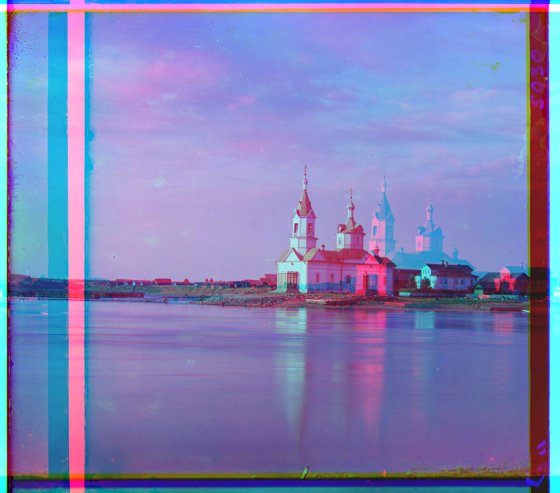
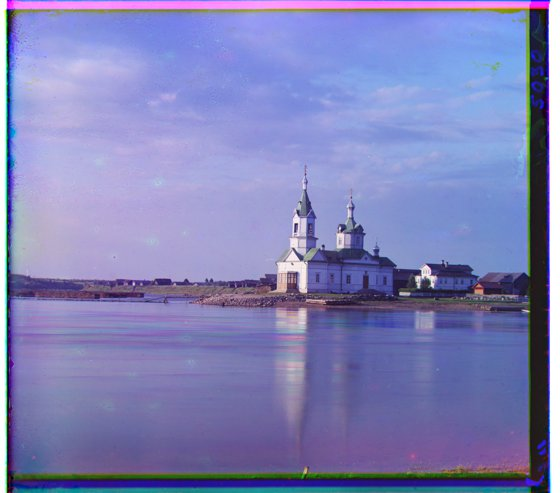
new imgs

diff --git a/proj1/index.html b/proj1/index.html
@@ -86,20 +86,6 @@
     compounds across levels.
   </p>
 
-  <p class="setup">
-    <b>Multi-start.</b> A plain pyramid can get stuck. Depending on how
-    coarse the base level is, a handful of images converge to the wrong
-    local minimum, often because a repetitive pattern (tiled
-    stonework, furrows in a field) looks similarly good at several offsets
-    once the image is small enough to lose that detail. Rather than hand-pick
-    a <code>min_size</code> per image (which the assignment rules out
-    anyway), I run the pyramid from four different base sizes
-    (50, 100, 150, 200px) and keep whichever of the four results actually
-    scores lowest. This is still a single, fixed, per-channel procedure,
-    with no manual tuning per image.
-  </p>
-
-
   <h2 id="s2"><span class="secno">2</span> Single-scale alignment</h2>
   <p class="setup">
     Results of the single-scale, raw-pixel L2 search (&plusmn;15px window)
@@ -124,7 +110,7 @@
   <table class="offsets-table">
     <thead><tr><th>Image</th><th>G offset (x, y)</th><th>R offset (x, y)</th><th>Time</th></tr></thead>
     <tbody>
-          <tr><td>Cathedral</td><td class="num">(5, 2)</td><td class="num">(12, 3)</td><td class="num">0.10s</td></tr>
+          <tr><td>Cathedral</td><td class="num">(5, 2)</td><td class="num">(12, 3)</td><td class="num">0.11s</td></tr>
           <tr><td>Monastery</td><td class="num">(-3, 2)</td><td class="num">(3, 2)</td><td class="num">0.07s</td></tr>
           <tr><td>Tobolsk</td><td class="num">(3, 3)</td><td class="num">(7, 3)</td><td class="num">0.07s</td></tr>
     </tbody>
@@ -136,9 +122,8 @@
     Results of the multi-scale pyramid alignment, with the L2 norm computed
     directly on raw RGB pixel values (as required), on all 14 provided
     example plates. All 14 use the exact same procedure and parameters,
-    with nothing tuned per image. Two of the 14 (church, emir) come out
-    visibly misaligned with this metric. See Section 5 for why, and for
-    the fix.
+    with nothing tuned per image. One of the 14 (emir) comes out visibly
+    misaligned with this metric. See Section 5 for why, and for the fix.
   </p>
 
   <div class="resultsgrid">
@@ -148,11 +133,11 @@
     </figure>
     <figure>
       <img src="media/pyramid_l2/church_aligned.jpg" width="560" height="493" loading="lazy" alt="Aligned Prokudin-Gorskii plate: Church">
-      <figcaption>Church<br><span class="offsets">G (25, 4) &middot; R (76, 508)</span> <b>(misaligned, see Section 5)</b></figcaption>
+      <figcaption>Church<br><span class="offsets">G (25, 4) &middot; R (58, -4)</span></figcaption>
     </figure>
     <figure>
       <img src="media/pyramid_l2/emir_aligned.jpg" width="560" height="485" loading="lazy" alt="Aligned Prokudin-Gorskii plate: Emir of Bukhara">
-      <figcaption>Emir of Bukhara<br><span class="offsets">G (48, 24) &middot; R (508, -61)</span> <b>(misaligned, see Section 5)</b></figcaption>
+      <figcaption>Emir of Bukhara<br><span class="offsets">G (48, 24) &middot; R (71, 39)</span> <b>(misaligned, see Section 5)</b></figcaption>
     </figure>
     <figure>
       <img src="media/pyramid_l2/harvesters_aligned.jpg" width="560" height="489" loading="lazy" alt="Aligned Prokudin-Gorskii plate: Harvesters">
@@ -204,19 +189,19 @@
     <thead><tr><th>Image</th><th>G offset (x, y)</th><th>R offset (x, y)</th><th>Time</th></tr></thead>
     <tbody>
           <tr><td>Cathedral</td><td class="num">(5, 2)</td><td class="num">(12, 4)</td><td class="num">0.2s</td></tr>
-          <tr class="fail"><td>Church</td><td class="num">(25, 4)</td><td class="num">(76, 508)</td><td class="num">6.5s</td></tr>
-          <tr class="fail"><td>Emir of Bukhara</td><td class="num">(48, 24)</td><td class="num">(508, -61)</td><td class="num">6.7s</td></tr>
-          <tr><td>Harvesters</td><td class="num">(59, 17)</td><td class="num">(123, 14)</td><td class="num">6.9s</td></tr>
-          <tr><td>Icon</td><td class="num">(41, 17)</td><td class="num">(89, 23)</td><td class="num">7.0s</td></tr>
-          <tr><td>Ilemselga</td><td class="num">(40, 7)</td><td class="num">(131, 11)</td><td class="num">7.1s</td></tr>
-          <tr><td>Melons</td><td class="num">(81, 10)</td><td class="num">(178, 14)</td><td class="num">7.0s</td></tr>
-          <tr><td>Monastery</td><td class="num">(-3, 2)</td><td class="num">(3, 2)</td><td class="num">0.1s</td></tr>
-          <tr><td>Religious Painting</td><td class="num">(29, 3)</td><td class="num">(69, 7)</td><td class="num">6.9s</td></tr>
-          <tr><td>Self Portrait</td><td class="num">(78, 29)</td><td class="num">(175, 37)</td><td class="num">7.2s</td></tr>
-          <tr><td>Siren (Lilacs)</td><td class="num">(50, -5)</td><td class="num">(97, -24)</td><td class="num">7.1s</td></tr>
-          <tr><td>Three Generations</td><td class="num">(52, 14)</td><td class="num">(111, 12)</td><td class="num">6.6s</td></tr>
-          <tr><td>Tobolsk</td><td class="num">(3, 3)</td><td class="num">(7, 3)</td><td class="num">0.1s</td></tr>
-          <tr><td>Wharf</td><td class="num">(15, -6)</td><td class="num">(82, -15)</td><td class="num">6.9s</td></tr>
+          <tr><td>Church</td><td class="num">(25, 4)</td><td class="num">(58, -4)</td><td class="num">2.0s</td></tr>
+          <tr class="fail"><td>Emir of Bukhara</td><td class="num">(48, 24)</td><td class="num">(71, 39)</td><td class="num">2.0s</td></tr>
+          <tr><td>Harvesters</td><td class="num">(59, 17)</td><td class="num">(123, 14)</td><td class="num">1.9s</td></tr>
+          <tr><td>Icon</td><td class="num">(41, 17)</td><td class="num">(89, 23)</td><td class="num">2.0s</td></tr>
+          <tr><td>Ilemselga</td><td class="num">(40, 7)</td><td class="num">(131, 11)</td><td class="num">2.0s</td></tr>
+          <tr><td>Melons</td><td class="num">(81, 10)</td><td class="num">(178, 14)</td><td class="num">2.0s</td></tr>
+          <tr><td>Monastery</td><td class="num">(-3, 2)</td><td class="num">(3, 2)</td><td class="num">0.0s</td></tr>
+          <tr><td>Religious Painting</td><td class="num">(29, 3)</td><td class="num">(69, 7)</td><td class="num">1.9s</td></tr>
+          <tr><td>Self Portrait</td><td class="num">(78, 29)</td><td class="num">(175, 37)</td><td class="num">2.0s</td></tr>
+          <tr><td>Siren (Lilacs)</td><td class="num">(50, -5)</td><td class="num">(97, -24)</td><td class="num">2.0s</td></tr>
+          <tr><td>Three Generations</td><td class="num">(52, 14)</td><td class="num">(111, 12)</td><td class="num">2.1s</td></tr>
+          <tr><td>Tobolsk</td><td class="num">(3, 3)</td><td class="num">(7, 3)</td><td class="num">0.0s</td></tr>
+          <tr><td>Wharf</td><td class="num">(15, -6)</td><td class="num">(82, -15)</td><td class="num">2.0s</td></tr>
     </tbody>
   </table>
 
@@ -248,9 +233,9 @@
   <table class="offsets-table">
     <thead><tr><th>Image</th><th>G offset (x, y)</th><th>R offset (x, y)</th><th>Time</th></tr></thead>
     <tbody>
-          <tr><td>Types of Dagestan</td><td class="num">(16, 1)</td><td class="num">(103, -1)</td><td class="num">7.0s</td></tr>
-          <tr><td>Study of a Head</td><td class="num">(55, 8)</td><td class="num">(114, 12)</td><td class="num">7.2s</td></tr>
-          <tr><td>In Malorossiya</td><td class="num">(26, 3)</td><td class="num">(120, 4)</td><td class="num">7.2s</td></tr>
+          <tr><td>Types of Dagestan</td><td class="num">(16, 1)</td><td class="num">(103, -1)</td><td class="num">2.0s</td></tr>
+          <tr><td>Study of a Head</td><td class="num">(55, 8)</td><td class="num">(114, 12)</td><td class="num">2.3s</td></tr>
+          <tr><td>In Malorossiya</td><td class="num">(26, 3)</td><td class="num">(120, 4)</td><td class="num">1.9s</td></tr>
     </tbody>
   </table>
 
@@ -258,35 +243,23 @@
   <h2 id="s5"><span class="secno">5</span> Bells &amp; whistles: better features</h2>
   <p class="setup">
     The required baseline metric is L2/SSD computed directly on raw RGB
-    pixel values, shown in Section 3 and Section 4 above. On 15 of the 17
+    pixel values, shown in Section 3 and Section 4 above. On 16 of the 17
     plates (all 3 custom ones included) this already works fine. But on
-    <b>church</b> and <b>emir</b>, raw-pixel L2
-    converges to a confidently wrong answer. The problem isn't the search
-    window being too narrow (I verified a wider window finds the exact same
-    wrong optimum), but that the metric itself prefers the wrong shift:
-    large flat, low-texture regions and a few repeating patterns (the
-    tiled stonework in emir's doorway) score deceptively well at the wrong
-    offset once pixel intensities are compared directly.
+    <b>emir</b>, raw-pixel L2 converges to a confidently wrong answer. The
+    problem isn't the search window being too narrow (I verified a wider
+    window finds the exact same wrong optimum), but that the metric itself
+    prefers the wrong shift: the tiled stonework around the doorway repeats
+    often enough that a few wrong offsets line it up just as well as the
+    correct one, once pixel intensities are compared directly.
   </p>
   <p class="setup">
     The fix: score alignment on each channel's Sobel gradient magnitude
     instead of its raw pixel values (still with L2/SSD as the metric, just
     on a different feature). Edges are far more distinctive than flat
     regions and largely invariant to the brightness differences between
-    color channels, which fixes both failures without regressing any of
-    the other 15 images.
+    color channels, which fixes the failure without regressing any of the
+    other 16 images.
   </p>
-
-  <div class="bw-block">
-    <h3>Church: before and after</h3>
-    <figure>
-      <div class="pair">
-      <img src="media/pyramid_l2/church_aligned.jpg" width="560" height="493" loading="lazy" alt="raw-pixel L2 (before) alignment of church">
-      <img src="media/golden/church_aligned.jpg" width="560" height="493" loading="lazy" alt="gradient-based (after) alignment of church">
-      </div>
-      <figcaption>Left: raw-pixel L2 (R offset (76, 508), clearly wrong). Right: gradient-based (R offset (58, -4)).</figcaption>
-    </figure>
-  </div>
 
   <div class="bw-block">
     <h3>Emir of Bukhara: before and after</h3>
@@ -295,7 +268,7 @@
       <img src="media/pyramid_l2/emir_aligned.jpg" width="560" height="485" loading="lazy" alt="raw-pixel L2 (before) alignment of emir">
       <img src="media/golden/emir_aligned.jpg" width="560" height="485" loading="lazy" alt="gradient-based (after) alignment of emir">
       </div>
-      <figcaption>Left: raw-pixel L2 (R offset (508, -61), clearly wrong). Right: gradient-based (R offset (107, 40)).</figcaption>
+      <figcaption>Left: raw-pixel L2 (R offset (71, 39), clearly wrong). Right: gradient-based (R offset (107, 40)).</figcaption>
     </figure>
   </div>
 
@@ -303,16 +276,14 @@
   <h2 id="s6"><span class="secno">6</span> Failure cases</h2>
   <p class="setup">
     With the required baseline (multi-scale pyramid, L2 on raw RGB pixels,
-    Sections 3 and 4), 2 of the 17 images, <b>church</b> and
-    <b>emir</b>, both from the provided set, come out visibly
-    misaligned (all 3 custom images align correctly). In both cases the
-    search itself isn't the problem (a wider window converges to the exact
-    same wrong answer). Raw pixel intensities just aren't a distinctive
-    enough signal on these two plates, so L2 prefers a shift that lines up
-    flat, low-texture regions (or a repeating tiled pattern, for emir) over
-    the shift that actually lines up the photo. See Section 5 for the fix
-    (gradient features), which brings both back into alignment. 0/17 fail
-    with the full pipeline.
+    Sections 3 and 4), 1 of the 17 images, <b>emir</b>, comes out visibly
+    misaligned (all 3 custom images and the other 13 provided ones align
+    correctly). The search itself isn't the problem (a wider window
+    converges to the exact same wrong answer). Raw pixel intensities just
+    aren't a distinctive enough signal on this plate: the repeating tiled
+    pattern around the doorway lines up just as well at the wrong offset as
+    at the correct one. See Section 5 for the fix (gradient features),
+    which brings it back into alignment. 0/17 fail with the full pipeline.
   </p>
 
 </main>
